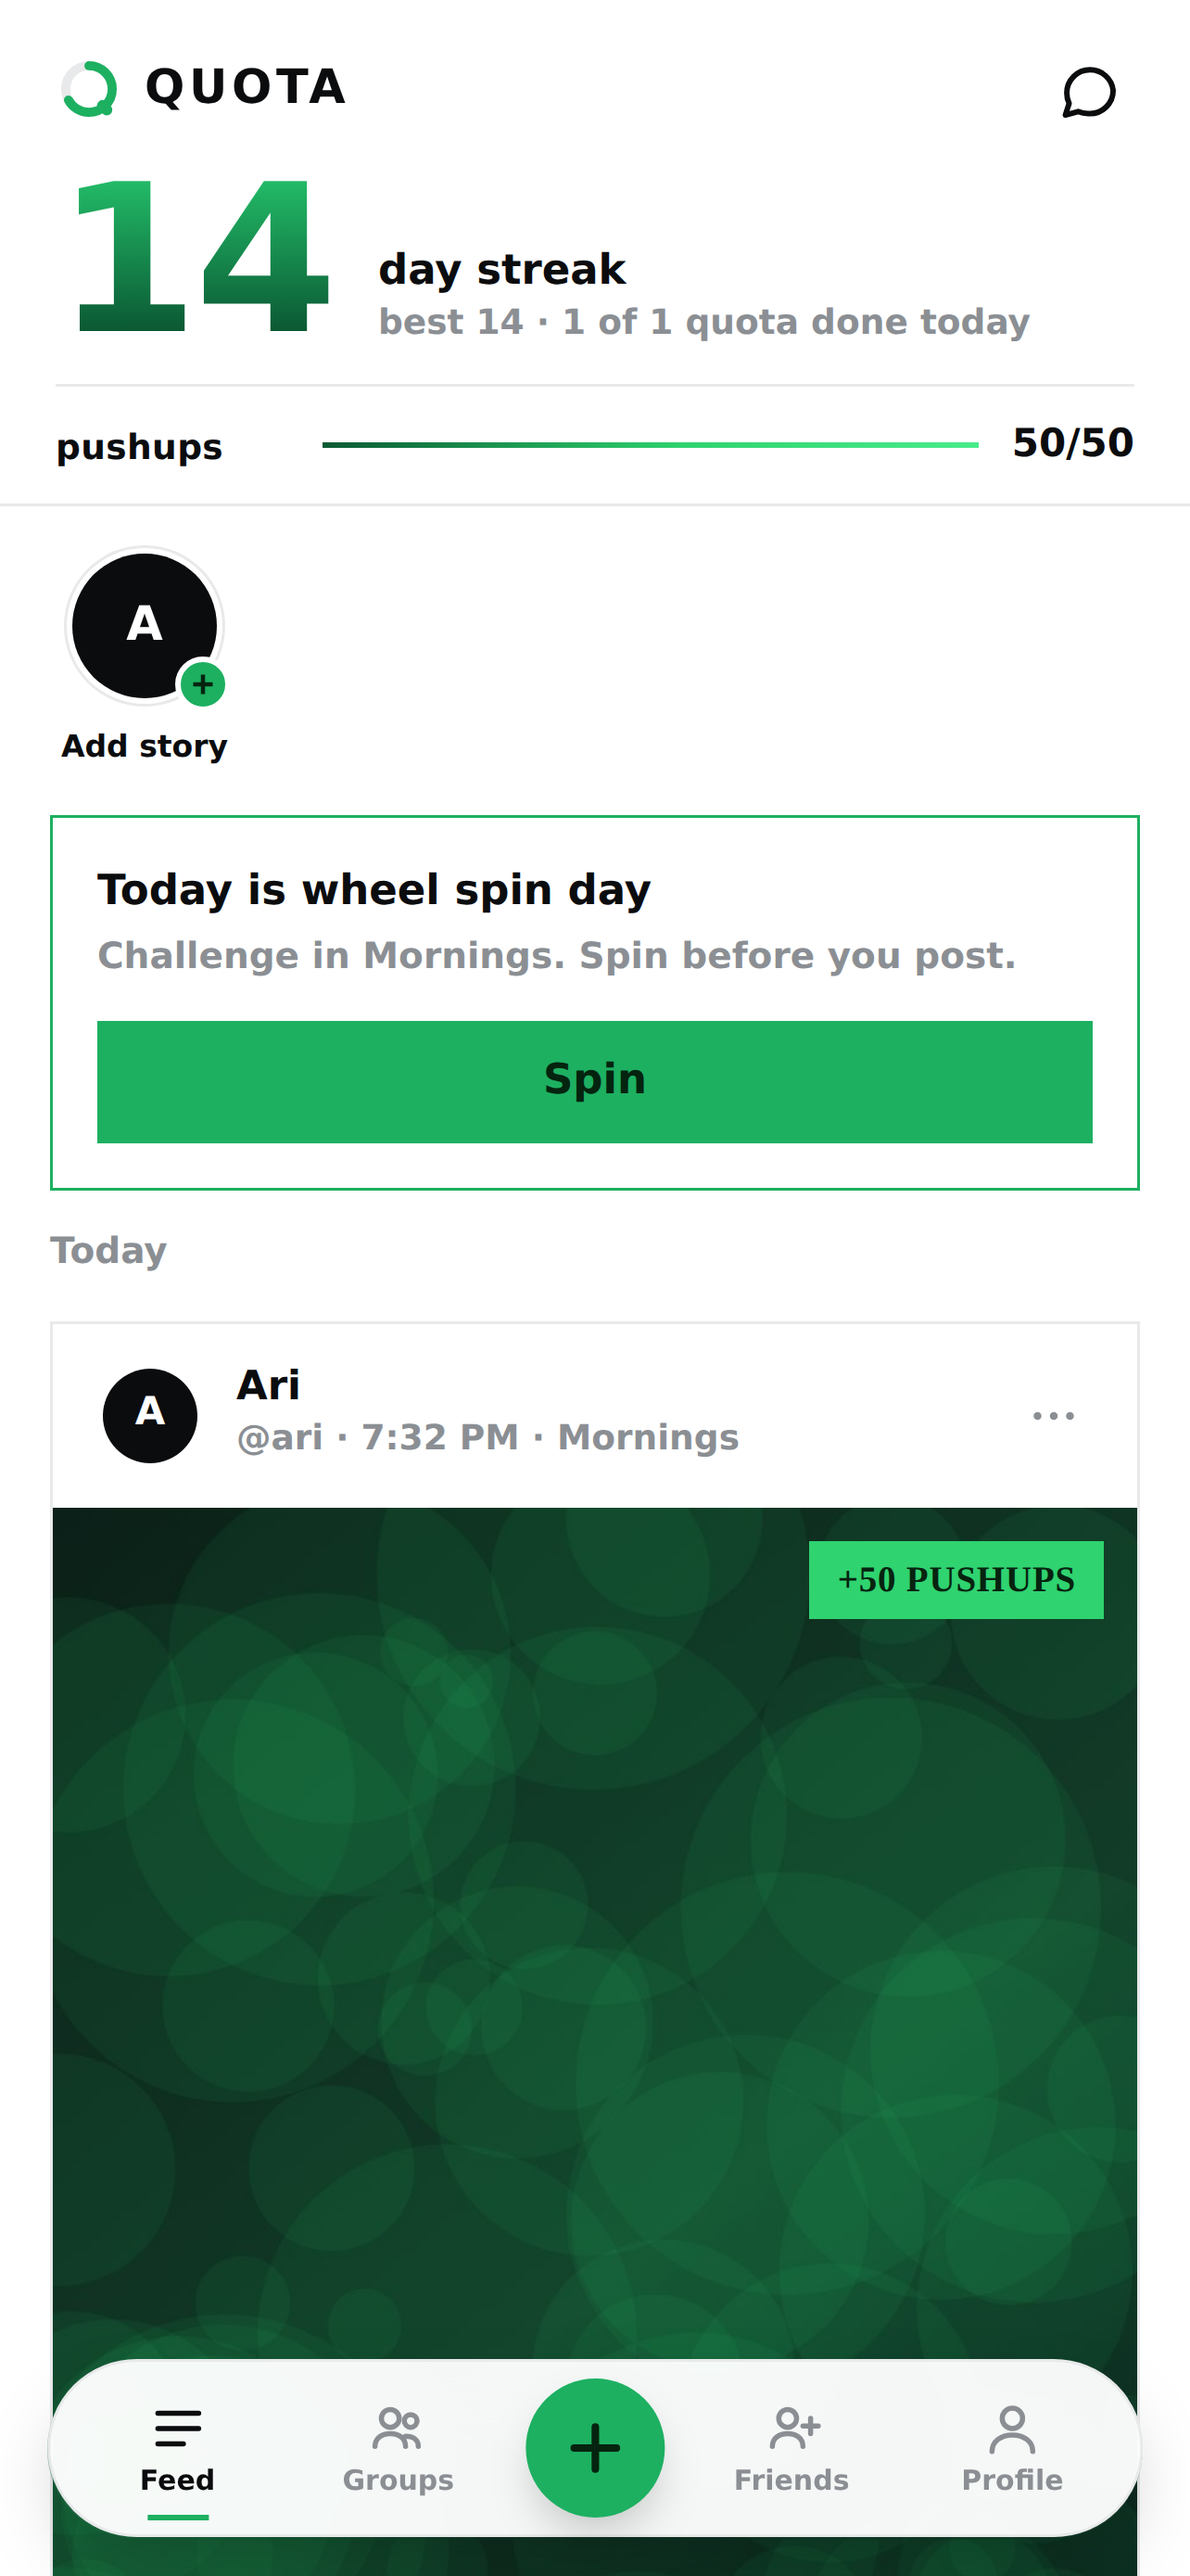
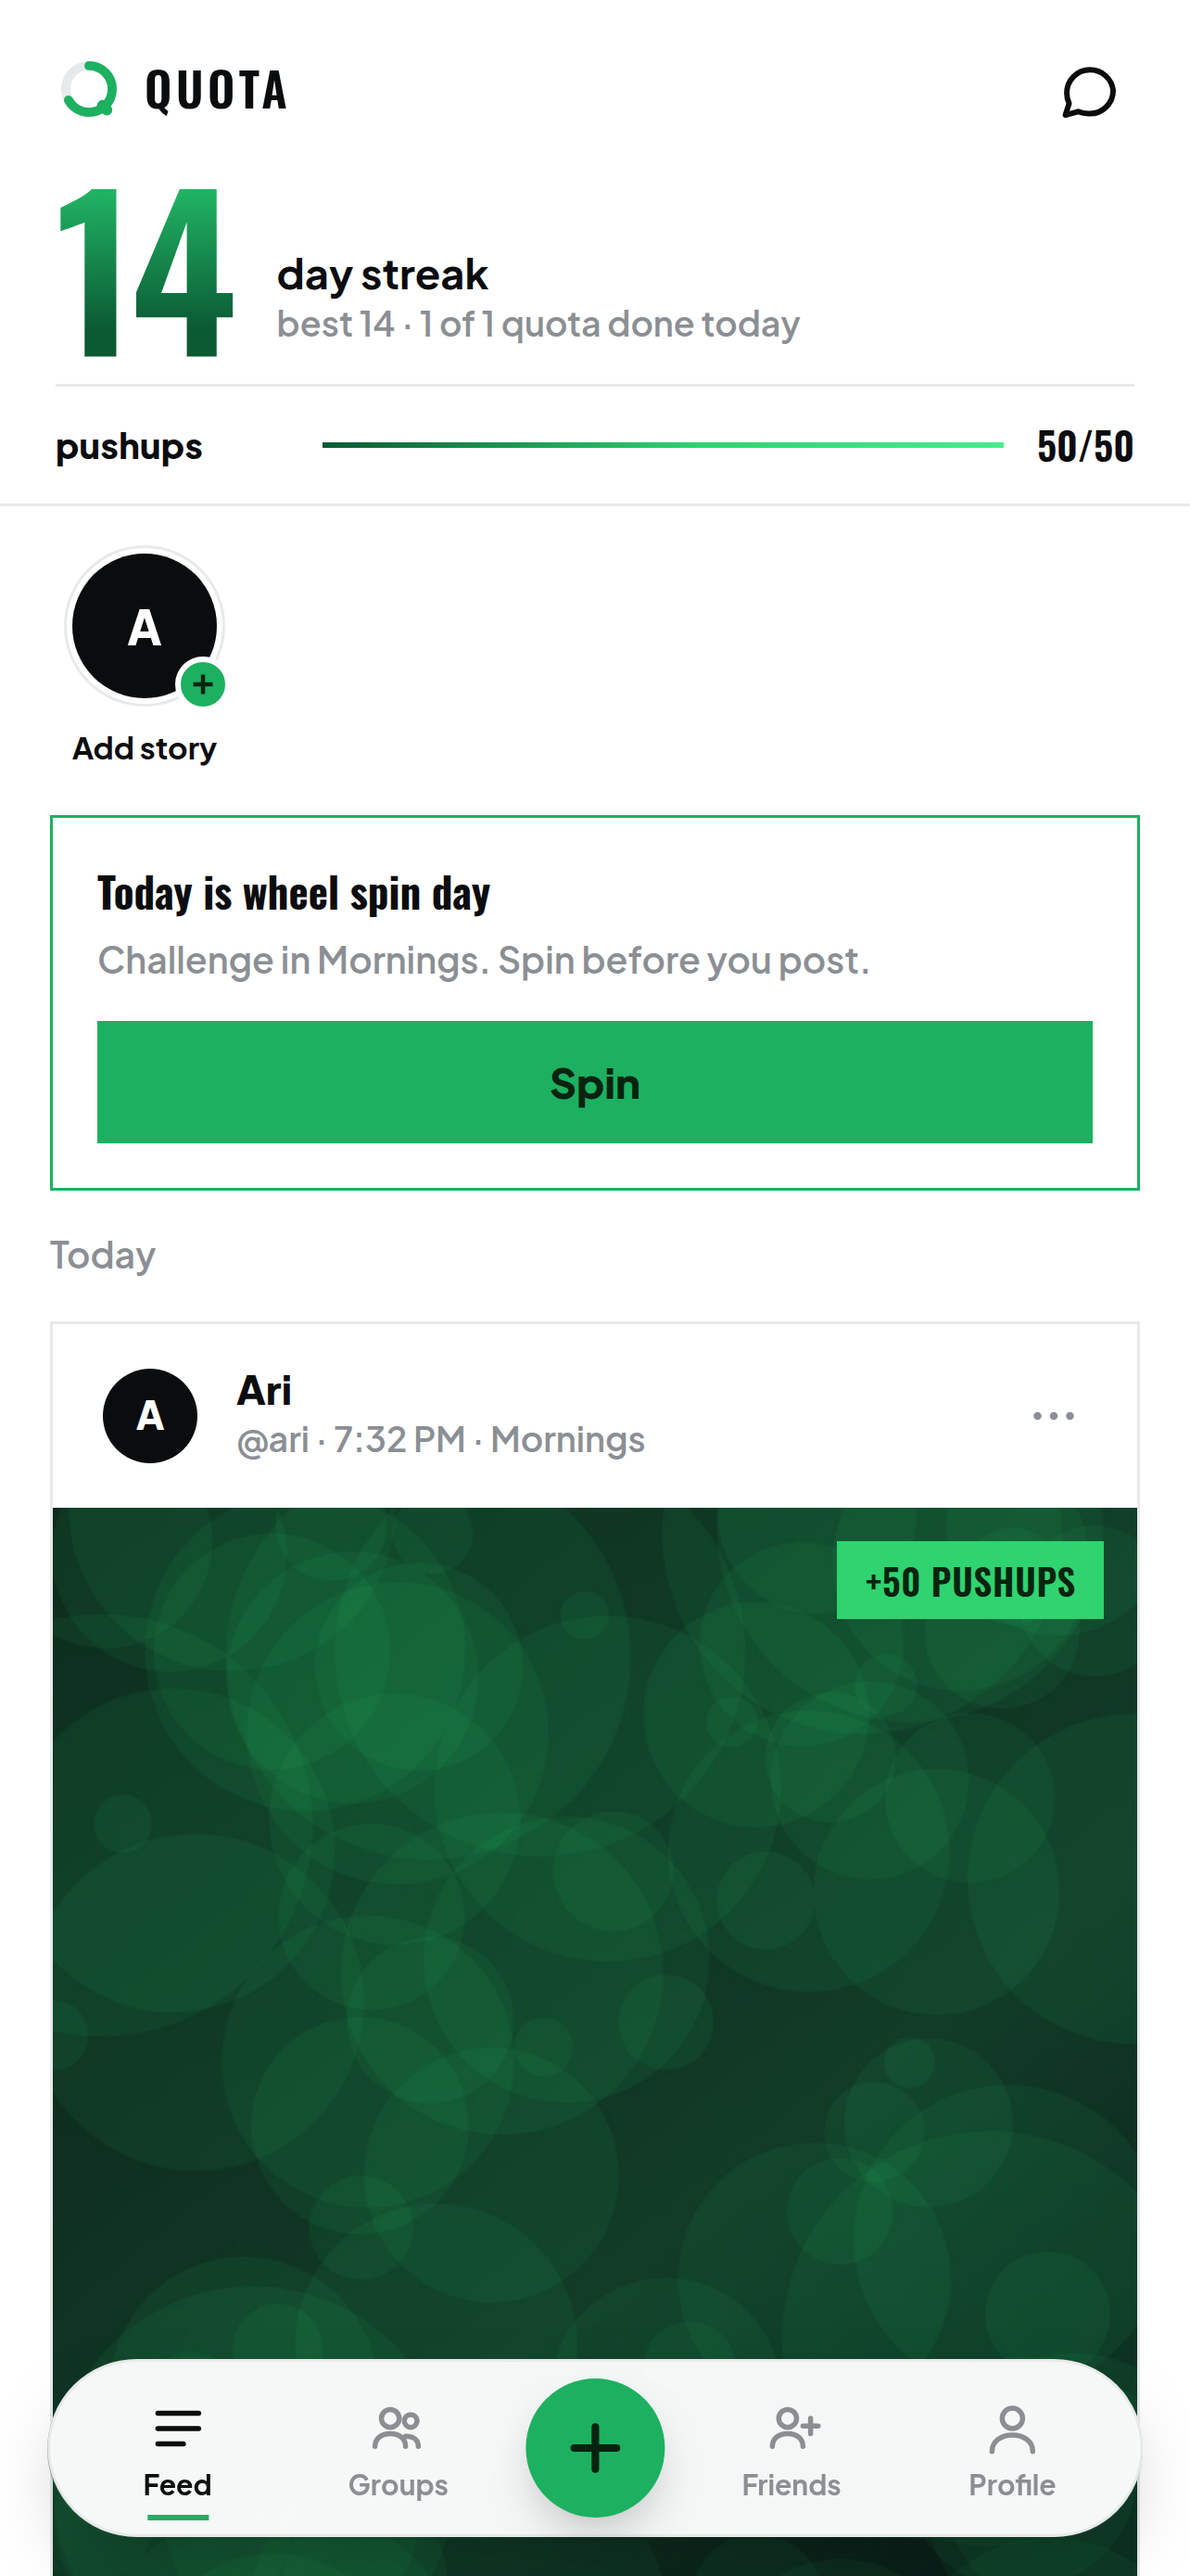
Google Play listing images, and screenshots in the app's real fonts
native/store/google-play/ holds the Play feature graphic (1024x500) and five phone
screenshots (1080x1920) from the real app: the feed, a group, the challenge wheel, the
month, and posting proof.

Making them showed that every screenshot so far had been taken in a stand-in font: where
the network is only reachable through a proxy the browser does not use, Google Fonts never
arrived and the page fell back without a word. test/screenshots.mjs now fetches the fonts
with curl in that case, and the four manifest screenshots are taken again in the app's own
Plus Jakarta Sans and Oswald.

And the month's "Tap a day to see what went in" sat flush against the edge of the screen;
it has the calendar's margin now. quota-v126.

Claude-Session: https://claude.ai/code/session_01HsdnVgquTM5pkyUUyFe6DY

diff --git a/app/index.html b/app/index.html
@@ -1498,7 +1498,7 @@ if (typeof supabase === 'undefined') {
 // Kept in step with VERSION in sw.js, and checked by test/static.test.mjs. It is what
 // answers "which build is this phone actually running", which is the first thing worth
 // knowing about a fault that only happens on somebody's own device.
-const BUILD = 'quota-v125';
+const BUILD = 'quota-v126';
 const SUPABASE_URL = 'https://txvjakpeyfnzigtsvmja.supabase.co';
 const SUPABASE_KEY = 'eyJhbGciOiJIUzI1NiIsInR5cCI6IkpXVCJ9.eyJpc3MiOiJzdXBhYmFzZSIsInJlZiI6InR4dmpha3BleWZuemlndHN2bWphIiwicm9sZSI6ImFub24iLCJpYXQiOjE3ODgyOTgzMDgsImV4cCI6MjEwMzg3NDMwOH0.W5YleWkxqjWFN-V9THtpO7Jcwy6LalqIYyAblXjkb9c';
 // Max video size. 50 MB is the hard cap on Supabase's free plan (verified: 50 MB uploads, 51 MB rejected).
@@ -4058,7 +4058,7 @@ function monthView(g) {
     <span><i class="none"></i>missed</span>${run.covered.size ? '<span><i class="cov"></i>pass</span>' : ''}</div>
   <div class="mgrid head">${['M', 'T', 'W', 'T', 'F', 'S', 'S'].map(x => `<span>${x}</span>`).join('')}</div>
   <div class="mgrid">${cells.join('')}</div>
-  <p class="muted pad small">Tap a day to see what went in.${run.covered.size ? ` Ringed days were carried by the crew's pass.` : ''}</p>`;
+  <p class="muted pad small" style="padding-inline:18px">Tap a day to see what went in.${run.covered.size ? ` Ringed days were carried by the crew's pass.` : ''}</p>`;
 }
 // One day of one group, which is the feed already knows how to draw.
 function dayView(g, day) {

diff --git a/app/sw.js b/app/sw.js
@@ -2,7 +2,7 @@
 // Static assets are cached. Everything from Supabase (auth, database, video upload,
 // signed video URLs) is deliberately left alone so it always hits the network.
 // Bump on every change to a precached file, or installed apps keep serving the old one from cache.
-const VERSION = 'quota-v125';
+const VERSION = 'quota-v126';
 // supabase.js is in here on purpose: every line of the app depends on it, so if it is
 // missing on a cold launch the page cannot start at all. Precached, that cannot happen.
 const PRECACHE = ['/', '/manifest.json', '/icon-192.png', '/icon-512.png', '/apple-touch-icon.png',
